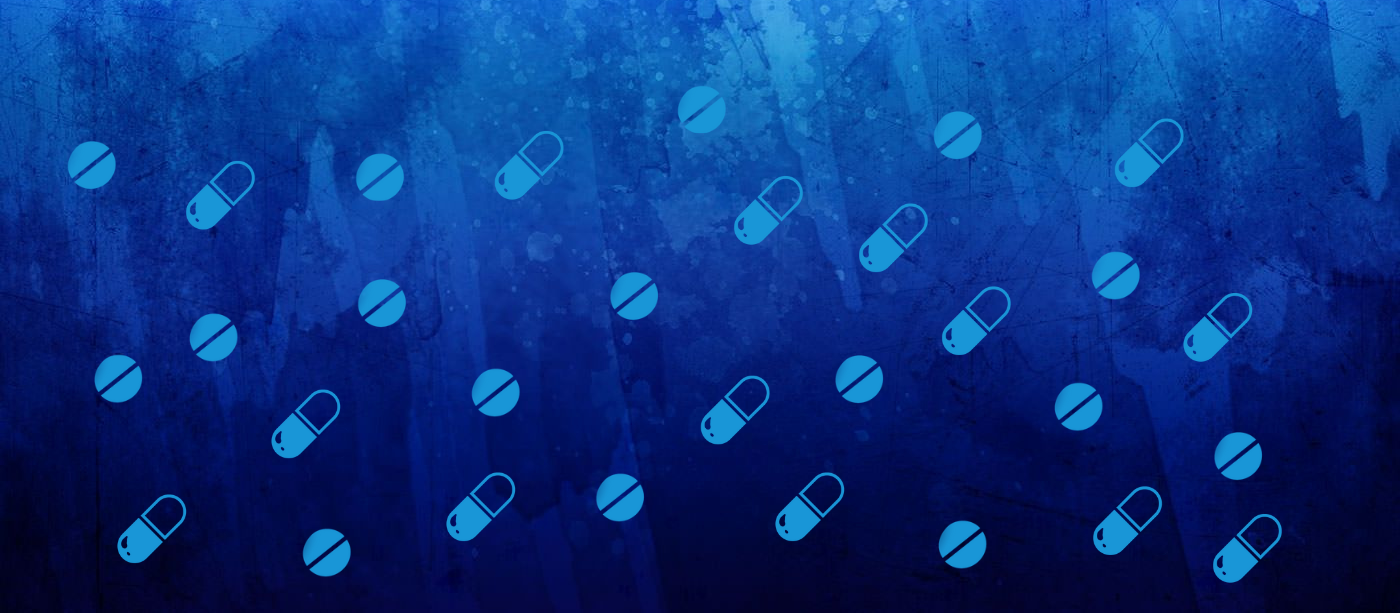
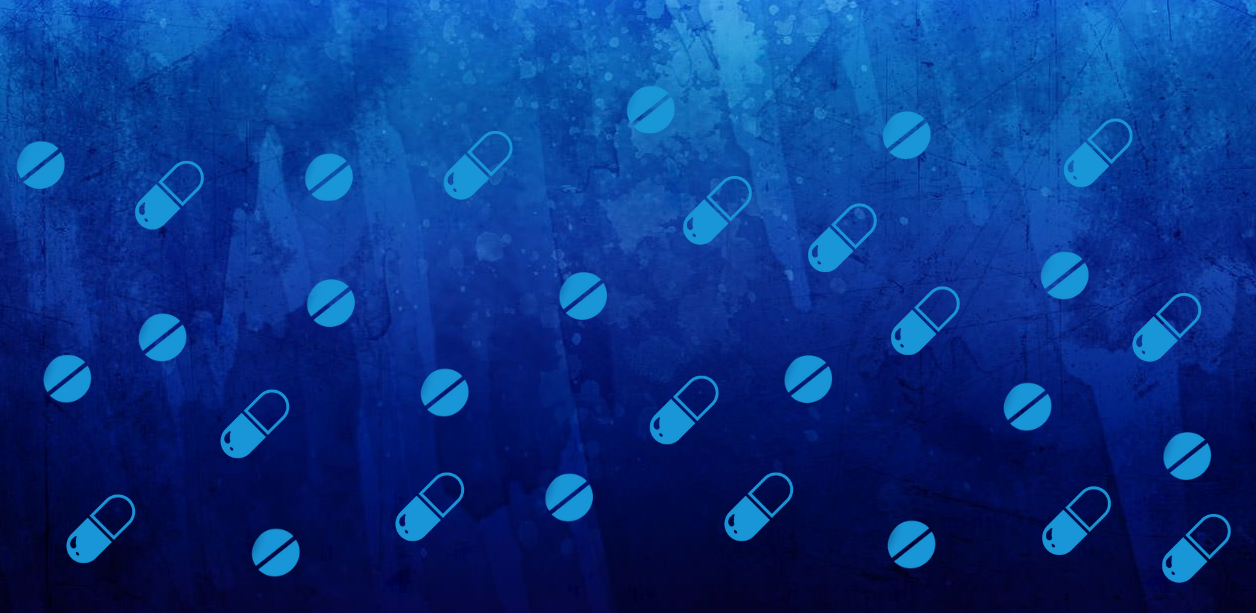
home

diff --git a/styles.css b/styles.css
@@ -80,9 +80,22 @@ input[type=checkbox] {
 .home{
   
   position: relative;
-  background-image: url("/Assets/Web Backgorund desktop.png");
-  background-position: center;
-  height:100vh;
+  /*background-image: url() no-repeat;*/
+  background: #666 url("/Assets/Web Backgorund desktop.png") no-repeat;
+  background-size: cover;
+
+
+  /*background-position: top center;*/
+  width: 100%;
+  height: 100vh;
+  
+}
+
+.pill{
+  width: 200%; /* Adjust the width to enlarge the image as needed */
+  height: auto; /* Maintain the aspect ratio of the image */
+  display: block; /* Ensures the image is a block-level element */
+  margin: 20 auto; /* Centers the image horizontally */
   
 }
 

diff --git a/index.html b/index.html
@@ -34,6 +34,9 @@
   </nav>
   
   <section class="home">
+    <div class="pill">
+      <img src="/Assets/pill.png" alt="pill">
+    </div>
     
   </section>
 
